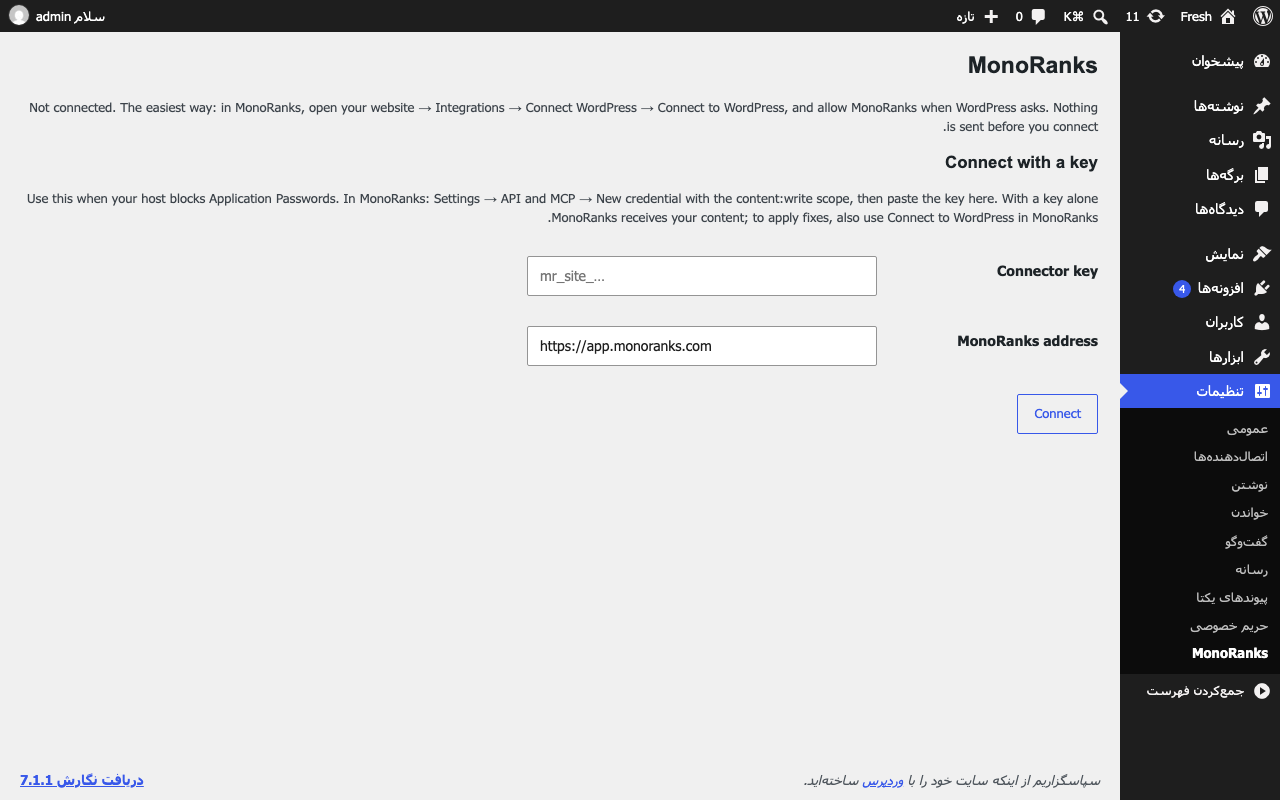
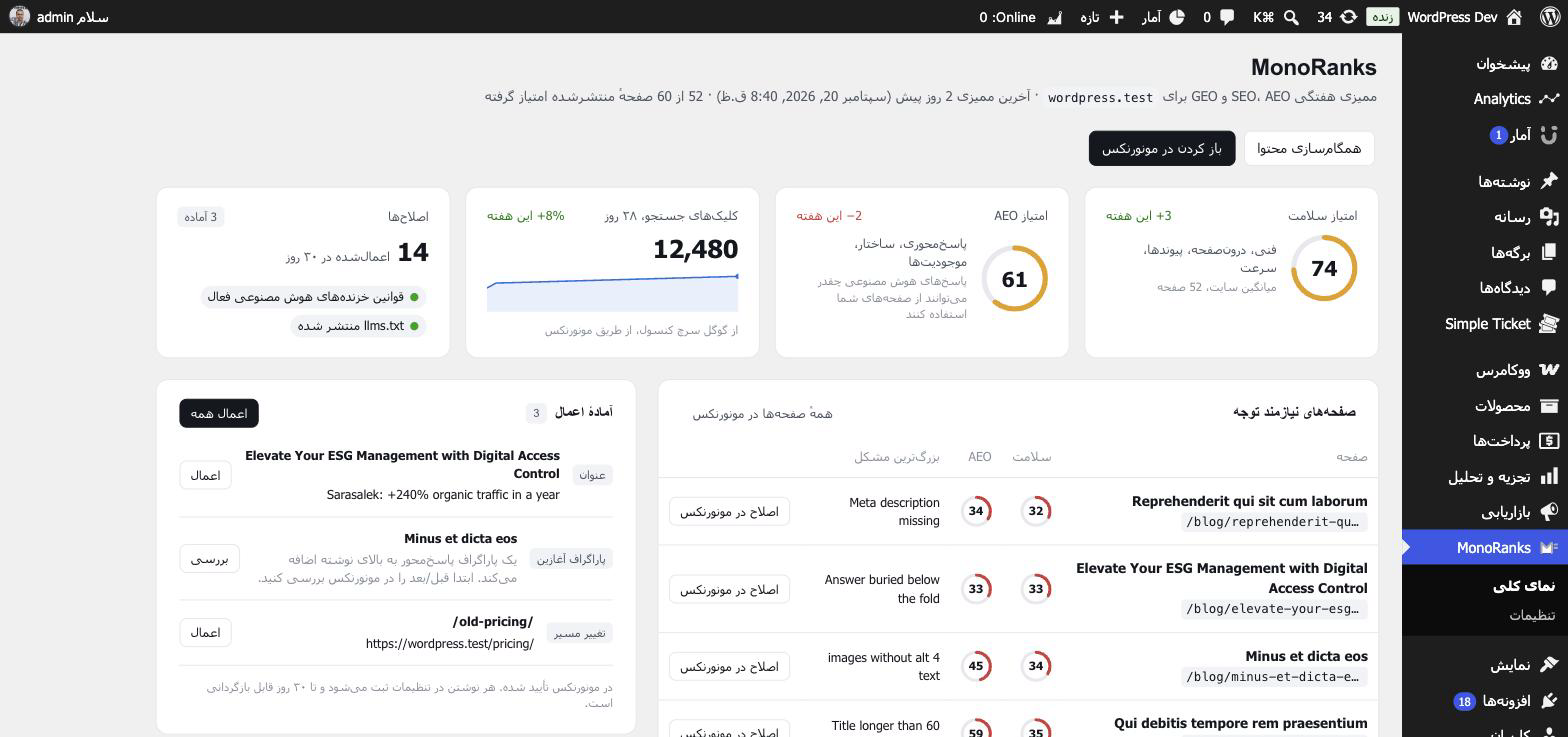
Changelog, readme and listing screenshots for the new admin screens
readme.txt describes the Overview and the Posts column, says what the key reads back (this website's audit results only), points at MonoRanks → Settings instead of Settings → MonoRanks, and lists five screenshots: Overview, Posts column and Settings from a clean WordPress (English and Persian), then the two MonoRanks screens. CHANGELOG.md has the same under 1.0.0 (unreleased). README.md points at views/, assets/, languages/ and docs/api.md.

diff --git a/README.md b/README.md
@@ -5,7 +5,8 @@ The WordPress plugin for [MonoRanks](https://monoranks.com): SEO, AEO and GEO au
 - Sends published content metadata so audits and rechecks stay current (never drafts, comments or credentials).
 - Applies approved fixes: titles, meta descriptions, headings, image alt text, canonical, noindex, redirects, an answer-first opening paragraph, AI crawler rules in robots.txt, llms.txt.
 - Works next to Yoast SEO, Rank Math and All in One SEO.
-- Every write is logged under Settings → MonoRanks and can be undone.
+- Shows the audit inside WordPress: a MonoRanks menu with an Overview (site health and AEO scores, search clicks, pages needing attention, fixes ready to apply, recent changes with Undo) and Settings, plus a MonoRanks column with each page's scores in Posts and Pages.
+- Every write is logged under MonoRanks → Settings and can be undone.
 
 Full description, what is sent and the FAQ: `readme.txt` (the WordPress.org listing).
 
@@ -15,7 +16,8 @@ This repository is the plugin's home. The MonoRanks monorepo includes it as a gi
 
 - `tests.yml`: the suite, on every pull request — PHP syntax on 7.4, 8.1 and 8.3; unit tests (PHPUnit + Brain Monkey, no WordPress needed: `composer install && vendor/bin/phpunit`); the WordPress.org plugin checker; a version consistency check (header, constant, readme, changelog); Chromium tests (Playwright) against a real WordPress started with wp-env.
 - `deploy.yml`: publishing a GitHub release `v<version>` runs `tests.yml` on that commit and, only when green, deploys to WordPress.org and attaches the zip to the release.
-- Classes: `src/` (namespace `MonoRanks`, Composer PSR-4). Third-party libraries are listed under `extra.wp-scoper.packages`; [WP Scoper](https://github.com/veronalabs/wp-scoper) prefixes them into `packages/` under `MonoRanks\Deps` on `composer install`, so nothing collides with other plugins.
+- Classes: `src/` (namespace `MonoRanks`, Composer PSR-4); admin templates under `views/` (classes gather data, templates print it); the stylesheet with the app's design tokens in `assets/admin.css`; translations in `languages/` (`wp i18n make-pot . languages/monoranks.pot --exclude=node_modules,vendor,packages,tests`, then `wp i18n make-mo languages/`).
+- `docs/api.md`: what the plugin reads from MonoRanks with the connector key (overview, per-page scores, applied-fix reports) and how it caches it. Third-party libraries are listed under `extra.wp-scoper.packages`; [WP Scoper](https://github.com/veronalabs/wp-scoper) prefixes them into `packages/` under `MonoRanks\Deps` on `composer install`, so nothing collides with other plugins.
 - Locally: `npm install`, `npx wp-env start` (Docker), `npx playwright test`. The site runs at http://localhost:8889 (admin / password).
 - `.wordpress-org/`: banner, icon and screenshots for the directory listing.
 

diff --git a/CHANGELOG.md b/CHANGELOG.md
@@ -10,4 +10,9 @@ Initial release.
 - Sends published content metadata (never drafts, comments or credentials) on connect, on every publish, update or unpublish, and once a day.
 - Applies the fixes approved in MonoRanks: SEO title, meta description, canonical, noindex, image alt text, redirects, an answer-first opening paragraph, AI crawler rules in robots.txt and an llms.txt file, each with Undo.
 - Works next to Yoast SEO, Rank Math and All in One SEO; prints the approved tags itself when no SEO plugin is active.
-- Settings → MonoRanks: connection state, what was sent, change log, disconnect.
+- A MonoRanks menu in the WordPress admin. Overview: the site's health and AEO scores with their weekly change, search clicks over 28 days, pages needing attention, the fixes approved in MonoRanks with Apply and Apply all, and the recent changes with Undo. Settings: connection state, connector key, last sync, what is sent and read back, recent changes, disconnect.
+- A "MonoRanks" column in Posts, Pages and every public post type: each page's health and AEO scores, fixes waiting for it and when it was audited. Sortable by health; a "Needs attention" view lists published pages under 60.
+- Reads this website's audit results from MonoRanks with the connector key (`docs/api.md`), cached and refreshed in the background so admin screens never wait on MonoRanks. Until MonoRanks answers these routes the screens say so and show nothing invented.
+- Admin screens use the MonoRanks design tokens (colours, radii, spacing; light and dark palettes; right-to-left admins mirror). Templates live under `views/`.
+- The MonoRanks address is fixed (`MONORANKS_API_BASE`, overridable in `wp-config.php`); the address field only shows on local and development sites. The old Settings → MonoRanks link redirects to the new screen.
+- Translations: `languages/monoranks.pot` and a Persian translation.
